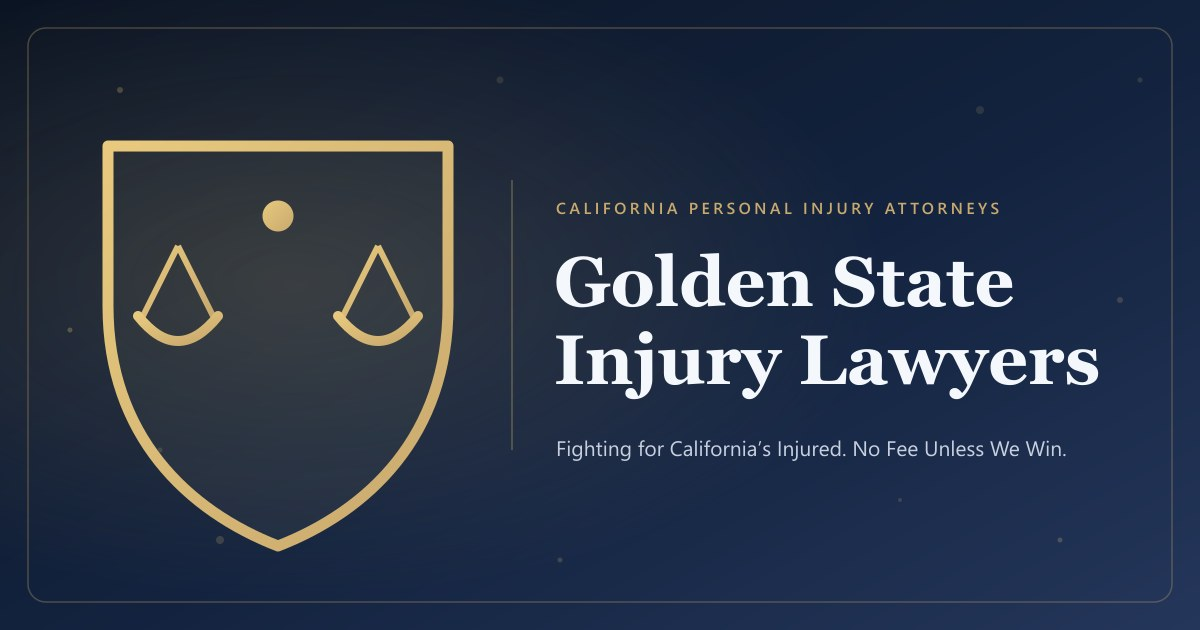
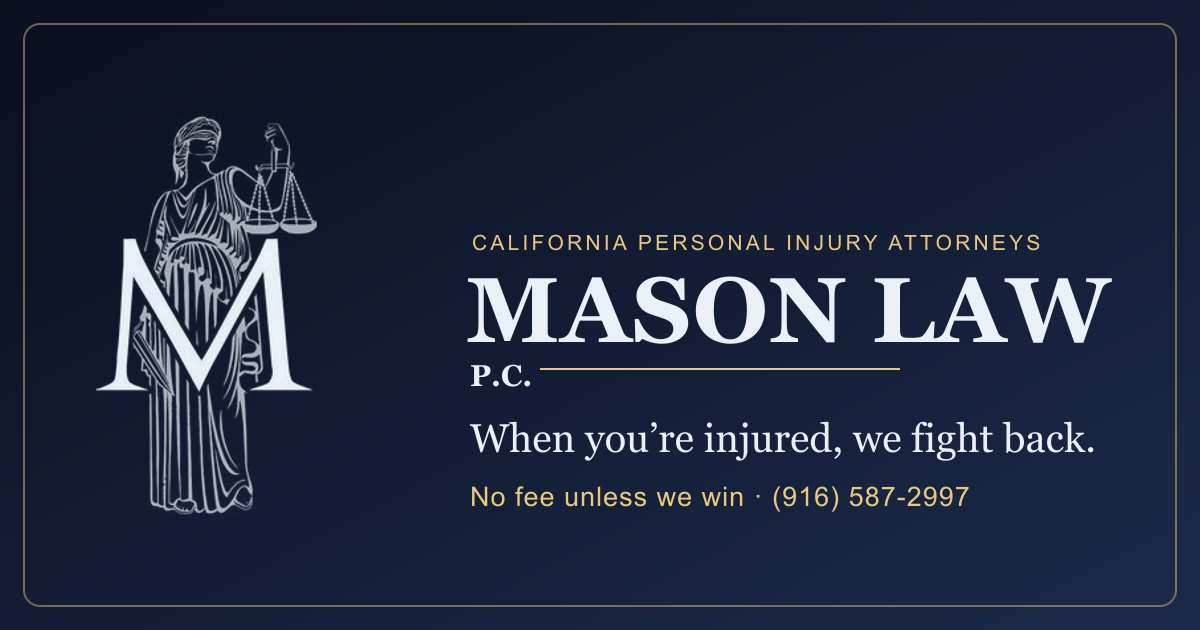
New Mason Law OG/social share image (navy + lady+M crest, replaces Golden State); cache-bust og:image ?v=mason2

Changed region(s): [[0.0617, 0.181, 0.925, 0.8746], [0.0, 0.0302, 0.9867, 0.9651], [0.37, 0.754, 0.8017, 0.8143]]

diff --git a/includes/header.php b/includes/header.php
@@ -67,7 +67,7 @@ $navAreas = getPracticeAreas();
   <meta property="og:title" content="<?= e($seo['title_full']) ?>">
   <meta property="og:description" content="<?= e($seo['description']) ?>">
   <meta property="og:url" content="<?= e(canonical($seo)) ?>">
-  <meta property="og:image" content="<?= e(url($seo['og_image'])) ?>">
+  <meta property="og:image" content="<?= e(url($seo['og_image']) . '?v=mason2') ?>">
   <meta property="og:image:type" content="image/jpeg">
   <meta property="og:image:width" content="1200">
   <meta property="og:image:height" content="630">
@@ -76,7 +76,7 @@ $navAreas = getPracticeAreas();
   <meta name="twitter:card" content="summary_large_image">
   <meta name="twitter:title" content="<?= e($seo['title_full']) ?>">
   <meta name="twitter:description" content="<?= e($seo['description']) ?>">
-  <meta name="twitter:image" content="<?= e(url($seo['og_image'])) ?>">
+  <meta name="twitter:image" content="<?= e(url($seo['og_image']) . '?v=mason2') ?>">
 
   <!-- Favicon / PWA -->
   <link rel="icon" href="/assets/images/favicon.ico" sizes="any">